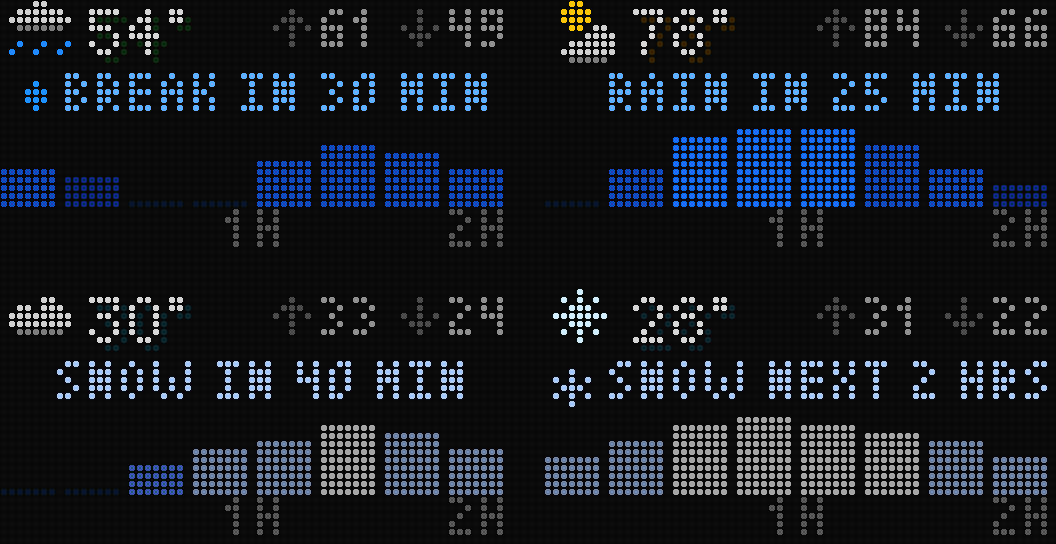
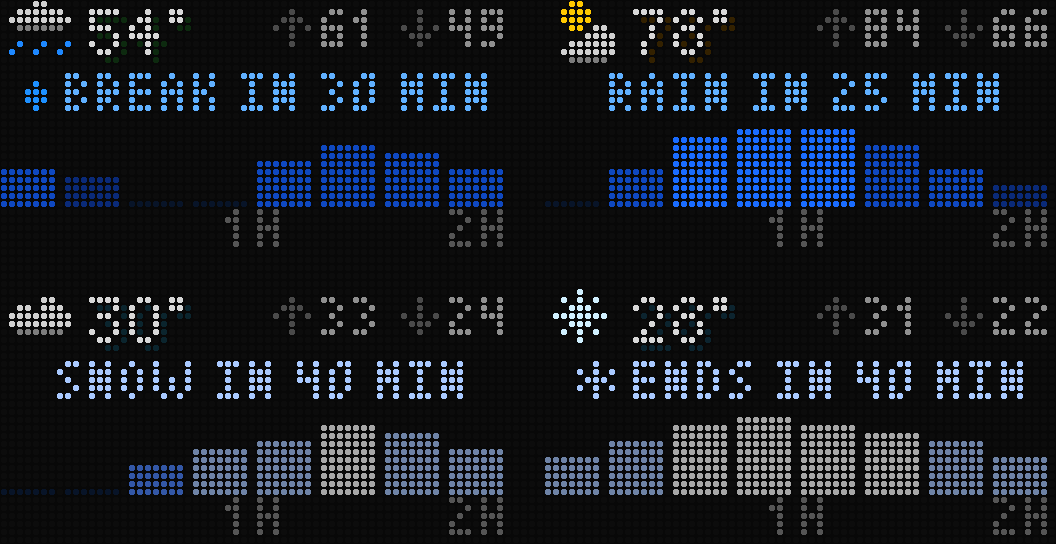
Board: rain bars title mark stands in for the word
The drop or flake now appears only on titles that don't say RAIN or SNOW
(ENDS IN..., BREAK IN...), whether or not it's falling now, never beside
the word. The flake moves up 1px to sit level with the text (rows 9-13).

Claude-Session: https://claude.ai/code/session_01A3rhig7LG9zSFWymE8NacA

Changed region(s): [[0.5312, 0.6562, 1.0, 0.75]]

diff --git a/server/board/draw.test.js b/server/board/draw.test.js
@@ -588,12 +588,21 @@ test('weather rain bars: shared top bar, centered title with a drop, bars on an 
   assert.ok(count(f, '#555555', 26, 26, 36, 31) > 5, '1H');
   assert.ok(count(f, '#555555', 54, 26, 63, 31) > 5, '2H');
   assert.deepEqual(f.get(63, 31), [0, 0, 0], 'margin right of 2H');
-  // Not falling now: no drop; snow: flake and the snow colors.
-  const due = draw.render({ now, bright: 100, warn: null, radar: rad({ ...wx, rain: { ...rain, now: 0, title: 'RAIN IN 25 MIN' } }) }, { screen: 'weather', now, frames: {} });
-  assert.equal(count(due, '#1e90ff', 0, 10, 63, 14), 0);
+  // The drop stands in for the word: none on titles that say RAIN or SNOW,
+  // whether or not it's falling now; always on ENDS / BREAK titles.
+  for (const [title, now_, mark] of [['RAIN IN 25 MIN', 0, false], ['RAIN NEXT 2 HRS', 1, false], ['ENDS IN 60 MIN', 0, true], ['BREAK IN 30 MIN', 1, true]]) {
+    const r = draw.render({ now, bright: 100, warn: null, radar: rad({ ...wx, rain: { ...rain, now: now_, title } }) }, { screen: 'weather', now, frames: {} });
+    assert.equal(count(r, '#1e90ff', 0, 9, 63, 14) > 0, mark, `${title} (now ${now_})`);
+  }
+  // Snow: the colors; the flake only on ENDS / BREAK titles, on the text's
+  // rows 9-13.
   const snow = draw.render({ now, bright: 100, warn: null, radar: rad({ ...wx, rain: { ...rain, snow: 1, title: 'SNOW NEXT 2 HRS' } }) }, { screen: 'weather', now, frames: {} });
   assert.equal(hex(snow.get(3, 25)), '#6e83a6');
-  assert.ok(count(snow, '#a9c9ff', 0, 10, 63, 14) > 40);
+  assert.ok(count(snow, '#a9c9ff', 0, 9, 63, 14) > 40);
+  const ends = draw.render({ now, bright: 100, warn: null, radar: rad({ ...wx, rain: { ...rain, snow: 1, title: 'ENDS IN 60 MIN' } }) }, { screen: 'weather', now, frames: {} });
+  let x0 = -1; for (let x = 0; x < 64 && x0 < 0; x++) for (let y = 9; y <= 14; y++) if (hex(ends.get(x, y)) === '#a9c9ff') { x0 = x; break; }
+  const flake = []; for (let y = 8; y <= 15; y++) { let n = 0; for (let x = x0; x < x0 + 5; x++) if (hex(ends.get(x, y)) === '#a9c9ff') n++; flake.push(n); }
+  assert.deepEqual(flake, [0, 1, 3, 3, 3, 1, 0, 0], 'flake on rows 9-13');
   // A warning takes the title row; a tornado warning blinks.
   const warn = (blink) => draw.render({ now, bright: 100, warn: { kind: 'tor', lvl: 'warning' }, radar: rad({ ...wx, rain }) }, { screen: 'weather', now, frames: {}, blink });
   assert.ok(count(warn(false), draw.C.warnTornado, 0, 10, 63, 14) > 30);

diff --git a/server/board/draw.js b/server/board/draw.js
@@ -851,7 +851,7 @@
     // ---- rain bars (wxRain 'bars'; mockup docs/board/mockups/weather/rain-states) ----
     // The weather screen while precipitation is falling or due in the next 2
     // hours (wx.rain). The top bar, then the title centered on rows 10-14
-    // (a drop, or a flake for snow, in front while it's falling now), eight
+    // (a drop, or a flake for snow, in front of titles that don't say RAIN or SNOW), eight
     // 15-minute bars (7px wide on an 8px pitch) rising from row 25 up to 10
     // rows, and `1H` / `2H` under the 4th/5th bar gap and the last bar. An NWS
     // warning or watch takes the title's place.
@@ -873,11 +873,13 @@
           f.text('small', t, gx + TAG_GAP - 1, 14, ws.color);
         }
       } else {
-        // The mark only when it fits beside the title.
-        const art = rain.now ? (rain.snow ? FLAKE : WX_DROP) : null;
+        // The drop or flake stands in for the word: only on titles that don't
+        // say RAIN or SNOW (ENDS IN..., BREAK IN...), and only if it fits.
+        const art = /RAIN|SNOW/.test(rain.title) ? null : (rain.snow ? FLAKE : WX_DROP);
         const markW = art && measure('small', rain.title) + art[0].length + 2 <= 64 ? art[0].length + 2 : 0;
         const x = 32 - Math.floor((measure('small', rain.title) + markW) / 2);
-        if (markW) drawArt(f, art, x, 10, rain.snow ? color : WX_BLUE);
+        // The text's rows are 9-13; the 5px flake matches them, the 4px drop sits on the bottom.
+        if (markW) drawArt(f, art, x, rain.snow ? 9 : 10, rain.snow ? color : WX_BLUE);
         f.text('small', rain.title, x + markW, 14, color);
       }
       const levels = rain.snow ? SNOW_LEVELS : RAIN_LEVELS;

diff --git a/firmware/tests/scenarios.js b/firmware/tests/scenarios.js
@@ -182,8 +182,9 @@ async function build() {
       ['break', { ...wx, icon: 'rain', rain: rain(0, 1, 'BREAK IN 30 MIN', [5, 4, 0, 0, 6, 8, 7, 5], [2, 1, 0, 0, 2, 2, 2, 2]) }, null],
       ['downpour', { ...wx, temp: 78, hi: 84, lo: 66, rain: rain(0, 0, 'RAIN IN 25 MIN', [0, 5, 9, 10, 10, 8, 5, 3], [0, 2, 3, 3, 3, 2, 2, 1]) }, null],
       ['snow in', { ...wx, icon: 'cloudy', temp: 30, hi: 33, lo: 24, rain: rain(1, 0, 'SNOW IN 40 MIN', [0, 0, 4, 6, 7, 9, 8, 6], [0, 0, 1, 2, 2, 3, 2, 2]) }, null],
+      ['snow ends', { ...wx, icon: 'snow', temp: 28, hi: 31, lo: 22, rain: rain(1, 1, 'ENDS IN 40 MIN', [5, 4, 3, 2, 1, 0, 0, 0], [2, 2, 2, 1, 1, 0, 0, 0]) }, null],
       ['snow now', { ...wx, icon: 'snow', temp: 28, hi: 31, lo: 22, rain: rain(1, 1, 'SNOW NEXT 2 HRS', [5, 7, 9, 10, 9, 8, 7, 5], [2, 2, 3, 3, 3, 3, 2, 2]) }, null],
-      ['no room for the drop', { ...wx, icon: 'rain', rain: rain(0, 1, 'BREAK IN 105 MIN', [1, 1, 1, 1, 1, 1, 1, 0], [1, 1, 1, 1, 1, 1, 1, 0]) }, null],
+      ['no room for the mark', { ...wx, icon: 'rain', rain: rain(0, 1, 'BREAK IN 105 MIN', [1, 1, 1, 1, 1, 1, 1, 0], [1, 1, 1, 1, 1, 1, 1, 0]) }, null],
       ['tor warning', { ...wx, icon: 'storm', rain: rain(0, 1, 'RAIN NEXT 2 HRS', [6, 7, 8, 9, 8, 7, 6, 5], [2, 2, 2, 3, 2, 2, 2, 2]) }, { kind: 'tor', lvl: 'warning' }],
       ['svr watch', { ...wx, icon: 'storm', rain: rain(0, 0, 'RAIN IN 45 MIN', [0, 0, 0, 3, 9, 10, 6, 2], [0, 0, 0, 1, 3, 3, 2, 1]) }, { kind: 'svr', lvl: 'watch' }],
     ];

diff --git a/scripts/preview-fonts.js b/scripts/preview-fonts.js
@@ -253,7 +253,7 @@ function transitRows(f, rows, tops) {
     { icon: 'rain', temp: 54, hi: 61, lo: 49, rain: R(0, 1, 'BREAK IN 30 MIN', [5, 4, 0, 0, 6, 8, 7, 5], [2, 1, 0, 0, 2, 2, 2, 2]) },
     { icon: 'pcloudy_day', temp: 78, hi: 84, lo: 66, rain: R(0, 0, 'RAIN IN 25 MIN', [0, 5, 9, 10, 10, 8, 5, 3], [0, 2, 3, 3, 3, 2, 2, 1]) },
     { icon: 'cloudy', temp: 30, hi: 33, lo: 24, rain: R(1, 0, 'SNOW IN 40 MIN', [0, 0, 4, 6, 7, 9, 8, 6], [0, 0, 1, 2, 2, 3, 2, 2]) },
-    { icon: 'snow', temp: 28, hi: 31, lo: 22, rain: R(1, 1, 'SNOW NEXT 2 HRS', [5, 7, 9, 10, 9, 8, 7, 5], [2, 2, 3, 3, 3, 3, 2, 2]) },
+    { icon: 'snow', temp: 28, hi: 31, lo: 22, rain: R(1, 1, 'ENDS IN 40 MIN', [5, 7, 9, 10, 9, 8, 7, 5], [2, 2, 3, 3, 3, 3, 2, 2]) },
   ];
   const f = new Frame(64 * 2 + 4, 32 * 2 + 4);
   states.forEach((w, i) => {

diff --git a/firmware/boardlib/draw.py b/firmware/boardlib/draw.py
@@ -1084,11 +1084,11 @@ def draw_rain_bars(f, wx, warn, blink):
             f.text('small', t, gx + TAG_GAP - 1, 14, wcolor)
     else:
         title = rain['title']
-        art = (FLAKE if rain.get('snow') else WX_DROP) if rain.get('now') else None
+        art = None if ('RAIN' in title or 'SNOW' in title) else (FLAKE if rain.get('snow') else WX_DROP)
         mark_w = len(art[0]) + 2 if art and measure('small', title) + len(art[0]) + 2 <= 64 else 0
         x = 32 - (measure('small', title) + mark_w) // 2
         if mark_w:
-            draw_art(f, art, x, 10, color if rain.get('snow') else WX_BLUE)
+            draw_art(f, art, x, 9 if rain.get('snow') else 10, color if rain.get('snow') else WX_BLUE)
         f.text('small', title, x + mark_w, 14, color)
     levels = SNOW_LEVELS if rain.get('snow') else RAIN_LEVELS
     for i, h in enumerate(rain['h'][:8]):

diff --git a/docs/board/contract.md b/docs/board/contract.md
@@ -220,7 +220,7 @@ From Open-Meteo (`server/board/weather.js`; fixture `fixtures/open-meteo/`), at 
 
 | `wx` | Weather screen conditions, sent whenever there's weather data (even with the weather row off): the top-level `wx` fields plus `feels` (apparent temperature °F, rounded), `wind` (`"NW 12"`: 8-point compass the wind blows from + mph, rounded; `"CALM"` under 1 mph; just the speed without a direction), and `pop` (highest hourly precipitation probability % over the next 6 hours, starting with the current hour). Each of the three is `null` when Open-Meteo didn't send it. Omitted before the first weather fetch. |
 | `wx.hours` | Only with the board's `wxView` `hourly` (absent otherwise, or without hourly data): four columns `{h, icon, t}` for the hours 3, 6, 9 and 12 after the current hour: `h` the Chicago hour as `3P`, `12A`; `icon` from that hour's `weather_code` and `is_day` (night variants); `t` °F, rounded. The weather screen draws the hourly layout instead of conditions. |
-| `wx.rain` | Only with the board's `wxRain` `bars` or `both` and precipitation falling or due in the next 2 hours (absent otherwise, or without 15-minute data): `{snow, now, title, h, l}`. `snow` 1 when snow is at least half the water (`snowfall` ÷ 0.7 cm per mm against `precipitation`, over the 8 steps; the whole view is one kind), else 0. `now` 1 when it's falling in the current quarter hour (drives the drop or flake in front of the title). `title` is final text: `RAIN IN 25 MIN`, `RAIN NEXT 2 HRS`, `ENDS IN 60 MIN`, `BREAK IN 30 MIN` (rain now, dry, then more), with `SNOW` for snow; minutes are to the next 5, at least 5. `h` and `l` are 8 bars (the next 8 quarter hours after `now`): height 0 (dry) or 1–10 rows, `round(sqrt(rate / full) × 10)` with rate = mm per 15 min × 4 in mm/h and `full` 10 (rain) or 4 (snow); level 0 (dry) or 1–3 at 2.5 / 7.6 mm/h (rain) or 1 / 2.5 mm/h (snow). `alt` (only with `both` while radar `frames` are sent): seconds per turn; the board shows the radar loop while `floor(now / alt)` is even and the bars while it's odd (`renderWeather()`, `render_weather()`). Without `alt`, the board draws the bars whenever it has no frames to show. |
+| `wx.rain` | Only with the board's `wxRain` `bars` or `both` and precipitation falling or due in the next 2 hours (absent otherwise, or without 15-minute data): `{snow, now, title, h, l}`. `snow` 1 when snow is at least half the water (`snowfall` ÷ 0.7 cm per mm against `precipitation`, over the 8 steps; the whole view is one kind), else 0. `now` 1 when it's falling in the current quarter hour (informational; the board doesn't draw it). `title` is final text: `RAIN IN 25 MIN`, `RAIN NEXT 2 HRS`, `ENDS IN 60 MIN`, `BREAK IN 30 MIN` (rain now, dry, then more), with `SNOW` for snow; minutes are to the next 5, at least 5. `h` and `l` are 8 bars (the next 8 quarter hours after `now`): height 0 (dry) or 1–10 rows, `round(sqrt(rate / full) × 10)` with rate = mm per 15 min × 4 in mm/h and `full` 10 (rain) or 4 (snow); level 0 (dry) or 1–3 at 2.5 / 7.6 mm/h (rain) or 1 / 2.5 mm/h (snow). `alt` (only with `both` while radar `frames` are sent): seconds per turn; the board shows the radar loop while `floor(now / alt)` is even and the bars while it's odd (`renderWeather()`, `render_weather()`). Without `alt`, the board draws the bars whenever it has no frames to show. |
 | `wx.days` | Only with the board's `wxView` `5day` (absent otherwise, or without forecast data): the days after today, up to 5, as `{d, icon, hi}`: `d` the two-letter weekday (`SA`), `icon` from that day's `daily.weather_code` (day icons; same mapping as `wx.icon`), `hi` the day's high °F, rounded. When present, the weather screen draws the 5-day layout instead of conditions. |
 
 **Weather screen.** The `weather` screen (formerly `radar`) draws the radar loop only when `frames` is non-empty, otherwise current conditions from `wx`. The server sends `frames`/`ft` **only while `on`** (empty otherwise), so the screen shows the radar while rain is in the box and the weather the rest of the time, and the board fetches no frames without rain. With no `frames` and no `wx`, the board draws the empty radar with the clock stack at the current time. While any frame is still downloading, the board holds on the newest frame it has (never an empty frame, never stepping back in time); the frame that completes the set restarts the loop at its oldest frame. Until the first frame lands, it shows the `wx` conditions screen (`radarLoopIdx()` / `radar_loop_idx()`). Layout (Tom Thumb unless noted; `drawWeatherScreen()` in `draw.js`, `draw_weather_screen()` in `draw.py`):
@@ -233,7 +233,7 @@ From Open-Meteo (`server/board/weather.js`; fixture `fixtures/open-meteo/`), at 
 
 **Hourly layout** (`wx.hours` present, no `wx.rain`, and no `warn`; `drawHourly()` in `draw.js`, `draw_hourly()` in `draw.py`; preview `previews/mock-weather-hourly.png`): the 5-day layout's top row, then four 16px columns, centers x7, 23, 39, 55, split by `#333333` dividers on cols 15, 31, 47 (rows 10–31). Per column: `h` grey centered (baseline 15), the icon at center − 4, y17, and `t` centered (baseline 31) in its temperature color, condensed like the day highs. With a warning or watch it draws the conditions layout.
 
-**Rain bars** (`wx.rain` present; `drawRainBars()` in `draw.js`, `draw_rain_bars()` in `draw.py`; preview `previews/mock-weather-rain.png`; the top row is the 5-day layout's, below): rows 10–14 hold `title` (Tom Thumb baseline 14) centered on x32 in `#60b0ff` (snow `#a9c9ff`), with a 3x4 drop (`#1e90ff`) or the 5x5 flake (snow color) and a 2px gap in front when `now` is 1 and it fits; a warning or watch takes the title's place (glyph + text in the warning colors, centered; a tornado warning blinks). Eight bars 7px wide on an 8px pitch (x0, 8, …, 56) rise from row 25, up to 10 rows (rows 16–25); a dry step is a 1px `#081428` baseline on row 25. Level colors rain `#0a2a78` `#0f48c0` `#1a6cff`, snow `#3357a6` `#6e83a6` `#a6a6a6`. Axis (Tom Thumb, baseline 31, `#555555`): `1H` centered on x31 (the gap between bars 4 and 5), `2H` right-aligned to x62.
+**Rain bars** (`wx.rain` present; `drawRainBars()` in `draw.js`, `draw_rain_bars()` in `draw.py`; preview `previews/mock-weather-rain.png`; the top row is the 5-day layout's, below): rows 10–14 hold `title` (Tom Thumb baseline 14) centered on x32 in `#60b0ff` (snow `#a9c9ff`), with a 3x4 drop (`#1e90ff`, rows 10–13) or the 5x5 flake (snow color, rows 9–13, level with the text) and a 2px gap in front only when the title doesn't say RAIN or SNOW (`ENDS IN…`, `BREAK IN…`: the icon stands in for the word, never both) and it fits; a warning or watch takes the title's place (glyph + text in the warning colors, centered; a tornado warning blinks). Eight bars 7px wide on an 8px pitch (x0, 8, …, 56) rise from row 25, up to 10 rows (rows 16–25); a dry step is a 1px `#081428` baseline on row 25. Level colors rain `#0a2a78` `#0f48c0` `#1a6cff`, snow `#3357a6` `#6e83a6` `#a6a6a6`. Axis (Tom Thumb, baseline 31, `#555555`): `1H` centered on x31 (the gap between bars 4 and 5), `2H` right-aligned to x62.
 
 **5-day layout** (`wx.days` present and no `warn`; with a warning or watch the board draws the conditions layout above, which has room for it; `drawFiveDay()` in `draw.js`, `draw_five_day()` in `draw.py`; preview `previews/mock-weather-5day.png`):
 - Today on rows 0–7: the `icon` at x1, y0; `temp` in X11 5x7 at x11 (a 2px gap after the icon), baseline 7, label white, then a Tom Thumb `°` (baseline 6), over a shadow of both drawn 1px right and 1px down in the temperature color (`TEMP_STOPS` blend below) at 20%; the high and low as `↑63 ↓49` (Tom Thumb, baseline 6; the arrows are the small font's 5x5 `UP` U+E007 and `DOWN` U+E008 glyphs) right-aligned to x62 (a 1px margin, like the icon's), the arrows `#4a4a4a` and the numbers grey `#8f8f8f`. The numbers are condensed like the day highs (a three-character or negative number draws `1` with a 3px advance and the minus as a 2px bar). When it would still come within 1px of the temperature's ink (shadow included; a three-character temperature with long highs and lows), the space before the down arrow goes, then the arrows (just `-100 -100` in grey).

diff --git a/docs/board/design-spec.md b/docs/board/design-spec.md
@@ -232,7 +232,7 @@ Server-side short-name map so labels fit (~6–7 characters next to a two-digit 
 - **Weather by default, radar when rain is in the box** (count of colored pixels, with separate on/off thresholds so it doesn't flicker in and out). The screen is `weather` (formerly `radar`); the payload's `radar` object, the radar frame endpoint, and the radar visit/time settings keep their names since they're about the radar loop. Timed visits on the auto screen still only happen while it rains, so they always show the radar.
 - **Weather layout** (Open-Meteo; exact pixels in `contract.md`, Radar): big temperature in the 9x15 Bold digits with a 3x3 ring degree sign, icon top right with the dim condition word under it, divider on row 18, then `FEELS 53°` + wind (`NW 12`) and `H 63° L 49°` + rain chance (a small blue drop + `20%`, the highest hourly chance over the next 6 hours). A **watch or warning replaces the high/low line** with the glyph and `TSTORM WATCH` / `TSTORM WARNING` / `TORNADO WATCH` / `TORNADO WARN` in the warning colors (tornado warning blinks). Preview: `docs/board/previews/mock-weather-screen.png`.
 - **Hourly layout** (`wxView` `hourly` on the phone): today's top bar, then the weather 3, 6, 9 and 12 hours ahead in four columns (time, icon, temperature). With rain bars on (`wxRain`), it's the dry state. Preview: `docs/board/previews/mock-weather-hourly.png`.
-- **Rain bars** (per board, `wxRain` on the phone: Radar loop, Rain bars (never the loop), or Both, alternating every 10–60 s while the radar box and the forecast both have rain): while rain or snow is falling or due in the next 2 hours, the weather screen shows today's top bar (as in the 5-day layout), a title (`RAIN IN 25 MIN`, `RAIN NEXT 2 HRS`, `ENDS IN 60 MIN`, `BREAK IN 30 MIN`, or `SNOW …`) with a drop or flake while it's falling, and eight 15-minute bars on a fixed square-root intensity scale in three blue (or grey, for snow) levels, `1H` / `2H` under the axis. Dry, it shows the conditions or 5-day layout; a warning takes the title's place. Preview: `docs/board/previews/mock-weather-rain.png`.
+- **Rain bars** (per board, `wxRain` on the phone: Radar loop, Rain bars (never the loop), or Both, alternating every 10–60 s while the radar box and the forecast both have rain): while rain or snow is falling or due in the next 2 hours, the weather screen shows today's top bar (as in the 5-day layout), a title (`RAIN IN 25 MIN`, `RAIN NEXT 2 HRS`, `ENDS IN 60 MIN`, `BREAK IN 30 MIN`, or `SNOW …`) with a drop or flake standing in for the word on titles that don't say RAIN or SNOW (`ENDS IN`, `BREAK IN`), and eight 15-minute bars on a fixed square-root intensity scale in three blue (or grey, for snow) levels, `1H` / `2H` under the axis. Dry, it shows the conditions or 5-day layout; a warning takes the title's place. Preview: `docs/board/previews/mock-weather-rain.png`.
 - **5-day layout** (per board, `wxView` on the phone: Conditions or 5-day): today on top (icon, then the temperature in 5x7 white with a 1px shadow in its temperature color, the high and low right as `↑63 ↓49` with dim arrows), then the next five days in 13px columns split by thin vertical dividers: two-letter weekday, icon, and the high colored blue (cold) to red (hot). A watch or warning switches back to the conditions layout while it's on, since only that has a line for it. Preview: `docs/board/previews/mock-weather-5day.png`.
 - **Configurable location**; crop centered on it (~1.5 mi/pixel).
 - **Pipeline (server):** crop → palette index to dBZ → average linear reflectivity per LED block → levels (15/25/35/45/55 dBZ: dim green, green, yellow, orange, red) → despeckle (drop pixels with <2 colored neighbors) → small indexed image.
